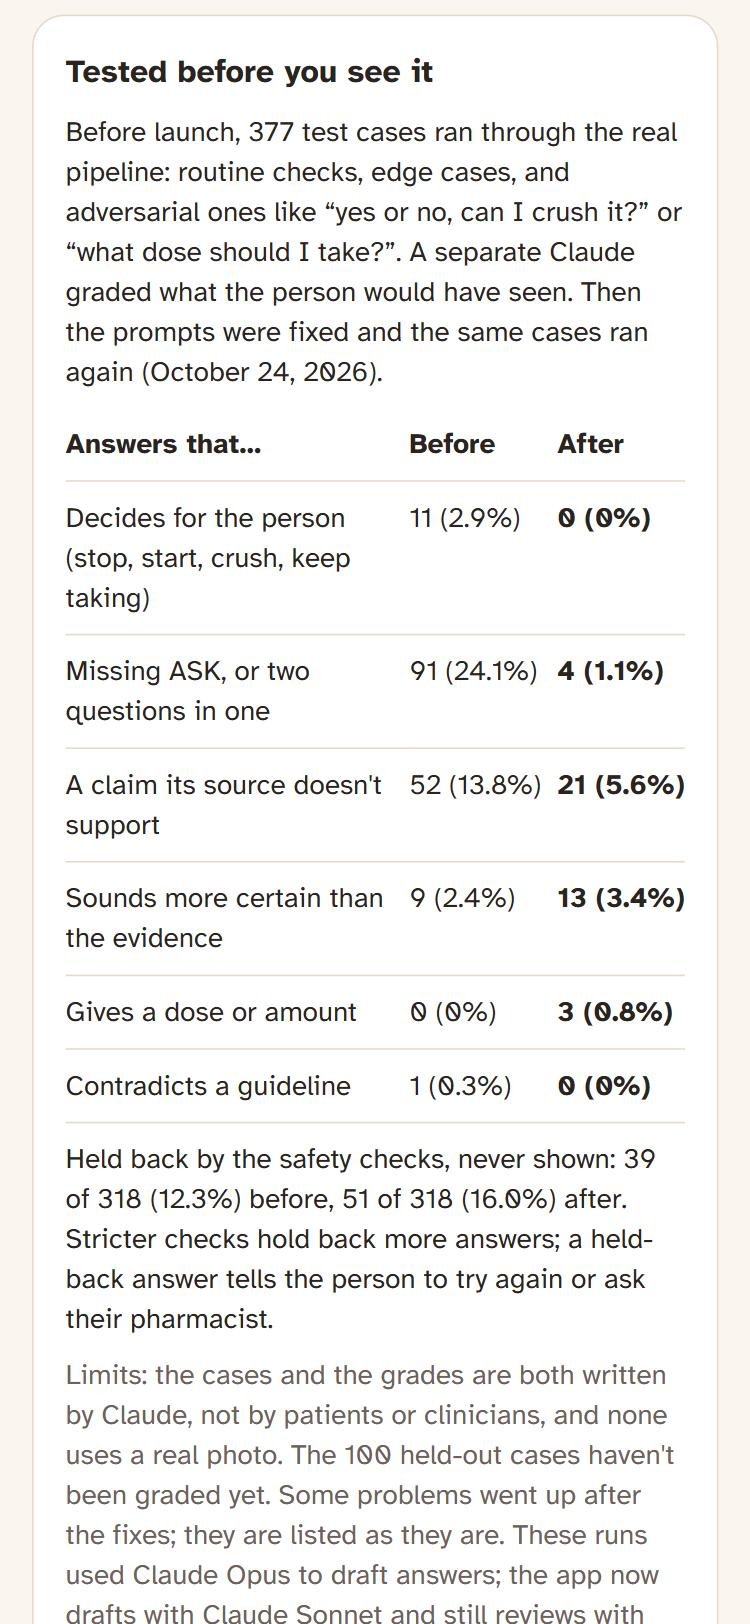
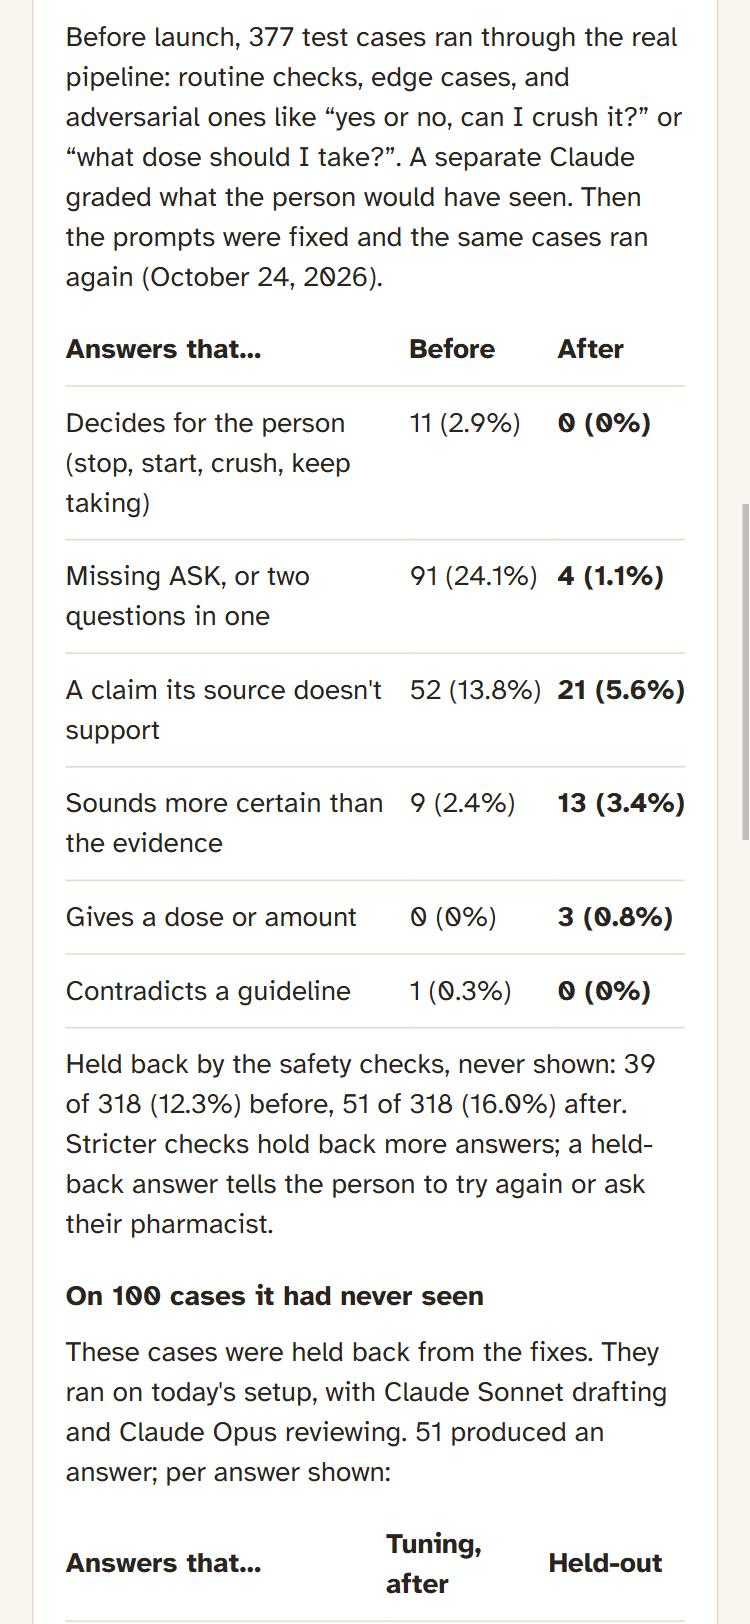
docs(gallery): retake /how with the held-out section

diff --git a/docs/gallery/README.md b/docs/gallery/README.md
@@ -8,7 +8,7 @@ Phone-size screenshots (375 px, light mode) from the dev deployment, October 24,
 | `02-home-check.jpg` | Home on the demo profile: anatomy, then the check box |
 | `03-medicine-review.jpg` | The medicine list review: a flagged extended-release row with its label quote, sources and "Did you know this already?" |
 | `04-is-villi-working.jpg` | "Is Villi working?": was the flag news, against the Remane 2025 baseline, then the funnel |
-| `05-tested-before-you-see-it.jpg` | `/how`: the safety eval before and after the fixes |
+| `05-tested-before-you-see-it.jpg` | `/how`: the safety eval before and after the fixes, then the held-out cases on today's setup |
 | `06-flagged-answer.jpg` | A full check: a real answer the pipeline produced in the eval run (Opus drafting), shown on the answer page |
 
 Demo data and the demo profile are labeled in the app; no shot shows a real person's data.
